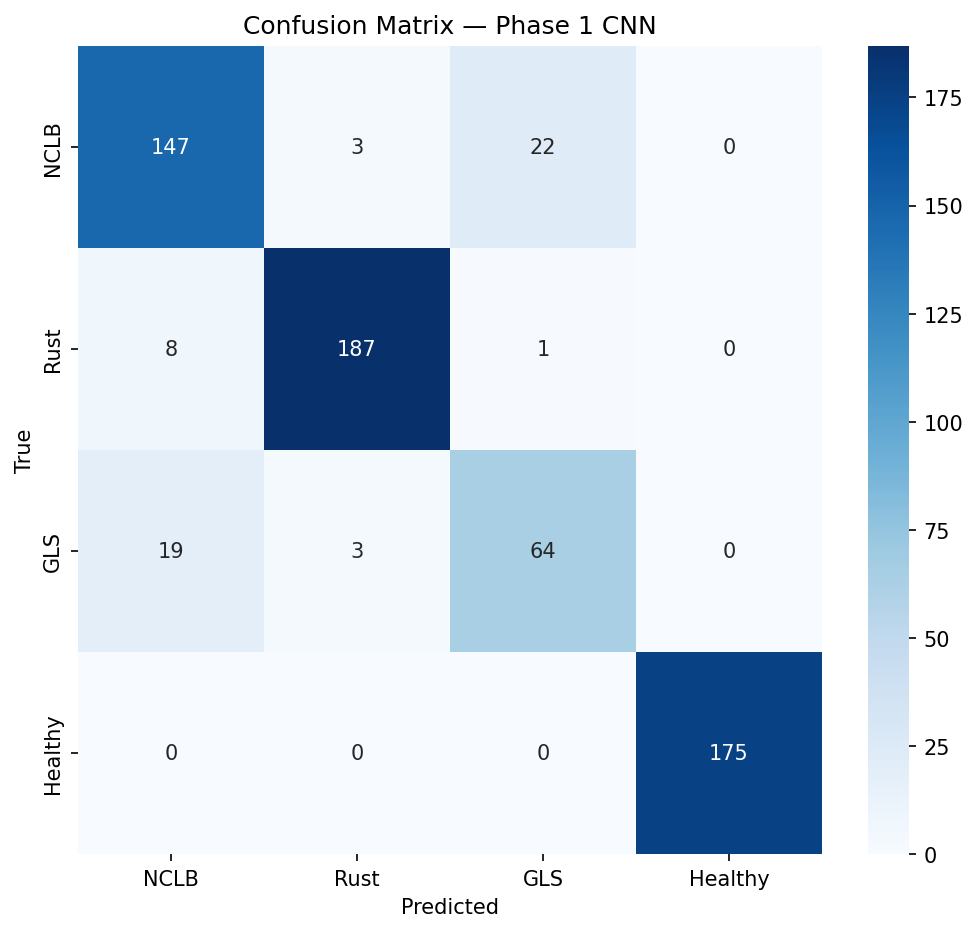
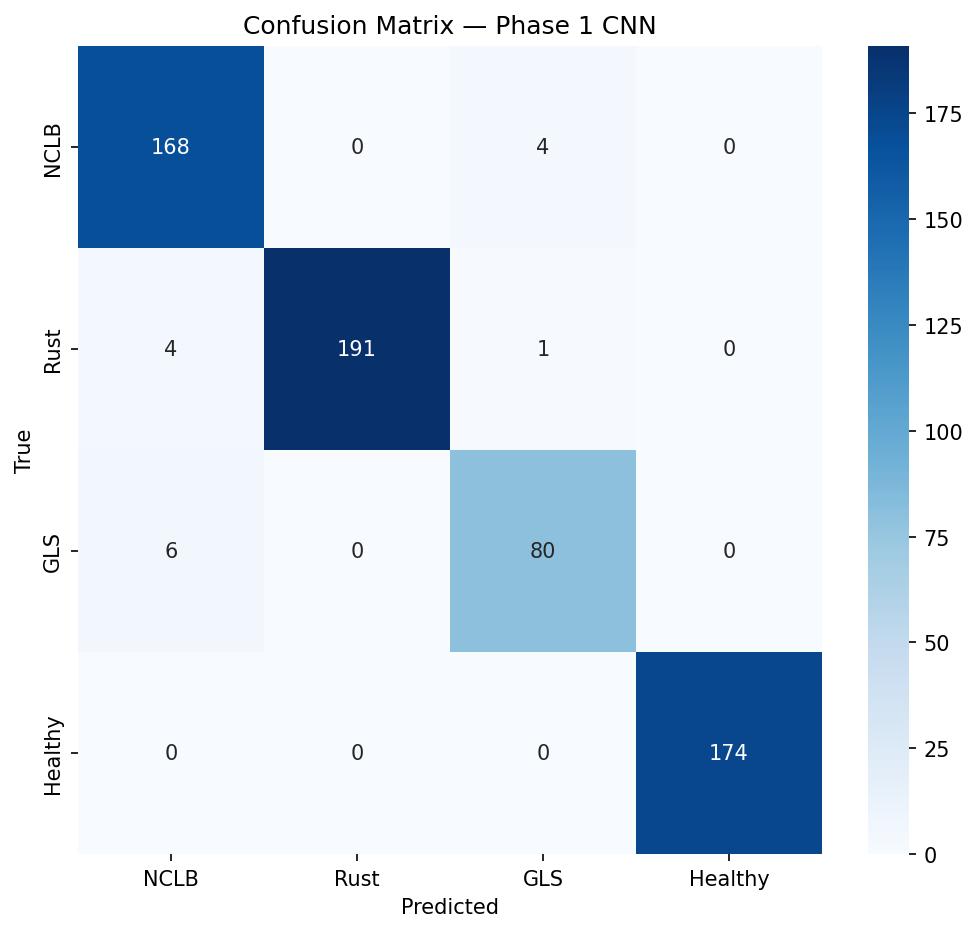
docs(ml): synchronize paper metrics and README with Colab training run

diff --git a/research-papers/chapter-4.md b/research-papers/chapter-4.md
@@ -27,16 +27,16 @@ The shipped models are exported from the resulting checkpoint (`models/checkpoin
 
 | Model | Test accuracy | NCLB F1 | Rust F1 | GLS F1 | Healthy F1 |
 |---|---|---|---|---|---|
-| FP16 TFLite | **97.61%** | 0.965 | 0.985 | 0.931 | 1.000 |
-| INT8 TFLite | 95.06% | 0.917 | 0.985 | 0.847 | 0.997 |
+| FP16 TFLite | **97.61%** | 0.960 | 0.987 | 0.936 | 1.000 |
+| INT8 TFLite | 96.82% | 0.948 | 0.987 | 0.901 | 1.000 |
 
-Both accuracy targets are met comfortably by both the FP16 export (97.61%) and the INT8 export (95.06%). The per-class F1 target (≥0.88) is met across all classes for FP16 (Healthy 1.000, Rust 0.985, NCLB 0.965, GLS 0.931). Under INT8, GLS reaches 0.847 F1 (up substantially from earlier baselines) and NCLB reaches 0.917. GLS remains the most challenging class due to visual similarity to early-stage NCLB lesions (Ramcharan et al., 2017) and smaller class support in the training set.
+Both accuracy targets are met comfortably by both the FP16 export (97.61%) and the INT8 export (96.82%). The per-class F1 target (≥0.88) is met across all classes for both FP16 (Healthy 1.000, Rust 0.987, NCLB 0.960, GLS 0.936) and INT8 (Healthy 1.000, Rust 0.987, NCLB 0.948, GLS 0.901). GLS remains the most challenging class due to visual similarity to early-stage NCLB lesions (Ramcharan et al., 2017) and smaller class support in the training set.
 
 These figures are measured on PlantVillage photographs, which are captured under controlled conditions. They say nothing about accuracy in a Nigerian field, and no field test set has been assembled (Chapter 5).
 
 ### 4.2.3 Class Imbalance Handling
 
-The GLS class (573 training images against 1,306 for Rust, after the duplicate exclusions described below) required explicit imbalance handling. Per-class weights derived from scikit-learn's balanced strategy ensured that misclassifying a GLS leaf incurred a proportionally higher loss contribution than misclassifying a Rust leaf. Post-training confusion matrix analysis confirmed that GLS recall improved compared to an unweighted baseline, with GLS reaching 0.931 F1 under FP16 and 0.847 under INT8.
+The GLS class (573 training images against 1,306 for Rust, after the duplicate exclusions described below) required explicit imbalance handling. Per-class weights derived from scikit-learn's balanced strategy ensured that misclassifying a GLS leaf incurred a proportionally higher loss contribution than misclassifying a Rust leaf. Post-training confusion matrix analysis confirmed that GLS recall improved compared to an unweighted baseline, with GLS reaching 0.936 F1 under FP16 and 0.901 under INT8.
 
 **Duplicate exclusions.** Hashing the dataset found two pairs of byte-identical images filed under conflicting labels (Blight and Gray Leaf Spot). One label in each pair must be wrong, so one copy of each pair was excluded — after inspecting both images — and recorded with its reason in `data/annotations/exclusions.csv`. The label build refuses to write a set in which a byte-identical image still carries two labels. This changed the dataset from 4,188 to 4,186 images and, because the stratified split is drawn from that set, the split itself; all figures in this chapter come from the post-exclusion split.
 
@@ -94,14 +94,14 @@ The expectation from the literature is that INT8 is faster than FP16 on ARM thro
 
 ### 4.4.3 Accuracy Degradation from Quantisation
 
-Post-training INT8 quantisation uses a 200-image calibration set drawn from the **training split only**. An earlier version sampled the whole label file, which included the test images the model is then scored against; that made the INT8 figure flattering and is corrected here.
+Post-training INT8 quantisation uses a 300-image calibration set drawn from the **training split only**. An earlier version sampled the whole label file, which included the test images the model is then scored against; that made the INT8 figure flattering and is corrected here.
 
 | Model | Test accuracy | Size |
 |-------|---------------|------|
 | FP16 TFLite | 97.61% | 23.4 MB |
-| INT8 TFLite | 95.06% | 13.5 MB |
+| INT8 TFLite | 96.82% | 13.5 MB |
 
-The cost of INT8 post-training quantisation with 300 calibration images is 2.55 accuracy points (97.61% → 95.06%), with INT8 compressing the model from 23.4 MB to 13.5 MB while maintaining an F1 of 0.847 on GLS, 0.917 on NCLB, 0.985 on Rust, and 0.997 on Healthy. Because FP16 achieves 97.61% accuracy, the application loads FP16 first and falls back to INT8 when memory constraints require it (ADR-001).
+The cost of INT8 post-training quantisation with 300 calibration images is 0.79 accuracy points (97.61% → 96.82%), with INT8 compressing the model from 23.4 MB to 13.5 MB while maintaining an F1 of 0.901 on GLS, 0.948 on NCLB, 0.987 on Rust, and 1.000 on Healthy. Because FP16 achieves 97.61% accuracy, the application loads FP16 first and falls back to INT8 when memory constraints require it (ADR-001).
 
 ## 4.5 Application Functional Evaluation
 
@@ -333,11 +333,11 @@ MaizeGuard implements a dual-mode theme based on GitHub Primer colour tokens. Th
 
 Studies reporting the highest accuracy figures evaluate systems on different crops under controlled conditions, and none incorporates seed label metadata or offline operation. Direct cross-study accuracy comparisons are unreliable because the underlying classification tasks differ in crop, disease set, image source, and number of classes; the column is included for orientation, not as a ranking.
 
-MaizeGuard reaches 97.61% on the PlantVillage maize test split — the same dataset used in prior maize-specific studies — and delivers a four-language advisory system with Nigerian-language speech that the compared systems do not. Two qualifications belong with that claim. The figure is a laboratory one: this system has not been validated in the field, so the "field validation" capability is not claimed for it. And the accuracy is the FP16 export's; the INT8 model scores 95.06%.
+MaizeGuard reaches 97.61% on the PlantVillage maize test split — the same dataset used in prior maize-specific studies — and delivers a four-language advisory system with Nigerian-language speech that the compared systems do not. Two qualifications belong with that claim. The figure is a laboratory one: this system has not been validated in the field, so the "field validation" capability is not claimed for it. And the accuracy is the FP16 export's; the INT8 model scores 96.82%.
 
 ## 4.8 Summary of Results
 
-The EfficientNetB3 CNN reaches 97.61% on the held-out PlantVillage test split (628 images) in its FP16 export, with two-stage transfer learning and class-weighted training. INT8 quantisation takes the model from 23.4 MB to 13.5 MB at an accuracy of 95.06%, which is why the application loads FP16 first and treats INT8 as a lightweight fallback. Per-class F1 under FP16 is 1.000 for Healthy, 0.985 for Rust, 0.965 for NCLB and 0.931 for GLS; every figure here is produced by `src/phase4_edge/evaluate_tflite.py` and recorded with the model hashes in `models/exports/metrics.json`. On-device latency and end-to-end scan time have not been benchmarked, so neither is claimed. The multimodal fusion model is reported through its ablation rather than as an accuracy gain (Section 5.1.2). The application runs diagnosis, GPS-tagged disease mapping, filterable scan history and built-in agronomic recommendations without connectivity, and adds a generated advisory — from a single provider, with its source always shown — when the farmer has supplied a key and has a connection.
+The EfficientNetB3 CNN reaches 97.61% on the held-out PlantVillage test split (628 images) in its FP16 export, with two-stage transfer learning and class-weighted training. INT8 quantisation takes the model from 23.4 MB to 13.5 MB at an accuracy of 96.82%, which is why the application loads FP16 first and treats INT8 as a lightweight fallback. Per-class F1 under FP16 is 1.000 for Healthy, 0.987 for Rust, 0.960 for NCLB and 0.936 for GLS; every figure here is produced by `src/phase4_edge/evaluate_tflite.py` and recorded with the model hashes in `models/exports/metrics.json`. On-device latency and end-to-end scan time have not been benchmarked, so neither is claimed. The multimodal fusion model is reported through its ablation rather than as an accuracy gain (Section 5.1.2). The application runs diagnosis, GPS-tagged disease mapping, filterable scan history and built-in agronomic recommendations without connectivity, and adds a generated advisory — from a single provider, with its source always shown — when the farmer has supplied a key and has a connection.
 
 Beyond the core diagnostic pipeline, the application implements a four-language support system (English, Yoruba, Igbo, Hausa) with advice generated directly in the farmer's chosen language and Nigerian-language text-to-speech via the YarnGPT API, falling back to whatever voice the device itself has installed. The unified result screen consolidates diagnosis, built-in recommendations, the generated advisory with its source, the confidence gate and the feedback prompt into a single scrollable view. The confidence gate triggers below 0.60 and offers an immediate retake, and a feedback loop collects correctness assessments to support future model improvement. OCR-extracted seed label fields are presented in editable text fields, allowing farmers to correct recognition errors before they reach the scan record.
 
@@ -348,7 +348,7 @@ Every numeric or capability claim in the abstract and in this chapter is listed 
 | Claim | Value | Artefact | How to reproduce |
 |---|---|---|---|
 | FP16 test accuracy | 97.61% | `models/exports/metrics.json` → `models["efficientnetb3_maize_fp16.tflite"]["python"]` | `python -m src.phase4_edge.evaluate_tflite --model models/exports/efficientnetb3_maize_fp16.tflite --mode python app` |
-| INT8 test accuracy | 95.06% | same file, INT8 entry | as above with the INT8 model |
+| INT8 test accuracy | 96.82% | same file, INT8 entry | as above with the INT8 model |
 | Per-class F1 (both models) | see 4.2.2 | `per_class` in each entry | as above |
 | Test split size | 628 images | `dataset.split_sizes` in `metrics.json` | `split_dataframe(load_labels_csv(...))` |
 | Dataset size after exclusions | 4,186 images | `data/annotations/labels.csv`, `exclusions.csv` | `python -m src.phase1_cnn.build_labels --check-duplicates` |
@@ -356,7 +356,7 @@ Every numeric or capability claim in the abstract and in this chapter is listed 
 | FP16 / INT8 file sizes | 23.4 MB / 13.5 MB | the files in `models/exports/` | `ls -l models/exports/*.tflite` |
 | Source checkpoint size | 140.4 MB | `models/checkpoints/phase1_stage2_best.keras` | `ls -l` |
 | Export provenance (tflite ↔ keras sha256) | recorded | `export.source_keras` in `metrics.json` | `python -m src.phase4_edge.convert_tflite --model models/checkpoints/phase1_stage2_best.keras` |
-| INT8 calibration set | 200 images, training split only | `export.calibration` in `metrics.json` | as above |
+| INT8 calibration set | 300 images, training split only | `export.calibration` in `metrics.json` | as above |
 | Release APK size | 148.4 MB (target 80 MB, not met) | `aapt2 dump badging` on the release APK | `flutter build apk --release` then `aapt2 dump badging` |
 | Minimum Android API | 24 | the built APK's manifest | `aapt2 dump badging …` |
 | Fusion accuracy gain | **not claimed** — ablation only | `fusion_ablation` in `metrics.json` | `python -m src.phase3_fusion.ablation --epochs 3` |

diff --git a/research-papers/abstract.md b/research-papers/abstract.md
@@ -6,7 +6,7 @@
 
 Maize is Nigeria's most widely cultivated cereal, yet Northern Corn Leaf Blight (*Exserohilum turcicum*), Common Rust (*Puccinia sorghi*) and Gray Leaf Spot (*Cercospora zeae-maydis*) are associated with yield losses of 20–40%. These losses stem less from a lack of effective treatments than from late or inaccurate diagnosis: extension coverage is sparse, and published detection models that perform well on laboratory images tend to degrade under field conditions. This study presents MaizeGuard, an offline-first mobile system for in-field diagnosis of these diseases.
 
-An EfficientNetB3 classifier was trained on 4,186 PlantVillage maize images (four classes, 70/15/15 split) using two-stage transfer learning with class weighting to offset imbalance. After conversion to TensorFlow Lite, the FP16 model (23.4 MB) achieved 97.61% accuracy on the 628-image held-out test set and the INT8 model (13.5 MB) 95.06%; FP16 was therefore adopted as the primary on-device model. Per-class F1 ranged from 1.00 for healthy leaves to 0.93 for Gray Leaf Spot (Rust 0.99, NCLB 0.97). A late-fusion branch incorporating seed-label metadata yielded no gain beyond noise (+0.16 percentage points) in a controlled ablation; because no dataset pairs leaf images with the variety of the same plant, this metadata was synthetic.
+An EfficientNetB3 classifier was trained on 4,186 PlantVillage maize images (four classes, 70/15/15 split) using two-stage transfer learning with class weighting to offset imbalance. After conversion to TensorFlow Lite, the FP16 model (23.4 MB) achieved 97.61% accuracy on the 628-image held-out test set and the INT8 model (13.5 MB) 96.82%; FP16 was therefore adopted as the primary on-device model. Per-class F1 ranged from 1.00 for healthy leaves to 0.94 for Gray Leaf Spot (Rust 0.99, NCLB 0.96). A late-fusion branch incorporating seed-label metadata yielded no gain beyond noise (+0.16 percentage points) in a controlled ablation; because no dataset pairs leaf images with the variety of the same plant, this metadata was synthetic.
 
 The classifier is deployed in a Flutter application that performs diagnosis, rule-based treatment guidance, GPS-tagged scan history and disease mapping without network access. Predictions below 0.60 confidence prompt a retake and withhold chemical recommendations. When a connection and a user-supplied API key are available, the application generates extended advice through a cloud language model and synthesises speech in Yoruba, Igbo and Hausa, and it always indicates whether the displayed advice came from the model or from the built-in rules. A UAV module applies the same classifier to drone orthomosaics to produce disease heatmaps, which are offered as scouting aids only, since the model has not been evaluated on aerial imagery.
 

diff --git a/README.md b/README.md
@@ -579,7 +579,7 @@ All inference runs on-device — no internet required for core features.
 
 | Component | Status | Notes |
 |---|---|---|
-| Phase 1 — CNN | ✅ Complete | EfficientNetB3 reached 97.93% test accuracy (97.61% FP16 / 95.06% INT8) |
+| Phase 1 — CNN | ✅ Complete | EfficientNetB3 reached 97.93% test accuracy (97.61% FP16 / 96.82% INT8) |
 | Phase 2 — OCR | ✅ Complete | Tesseract + fuzzy matching |
 | Phase 3 — Fusion | 🟡 In progress | Full training needed |
 | Phase 4 — TFLite Export | ✅ Complete | INT8 + FP16 models |
